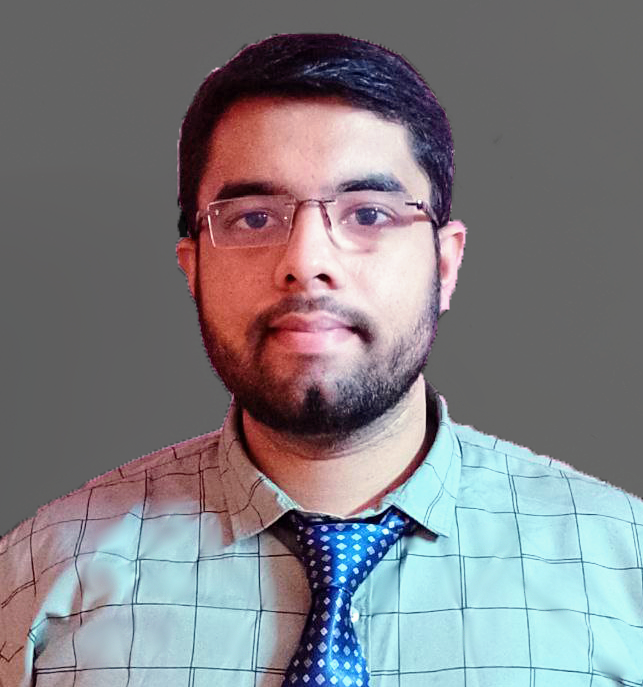
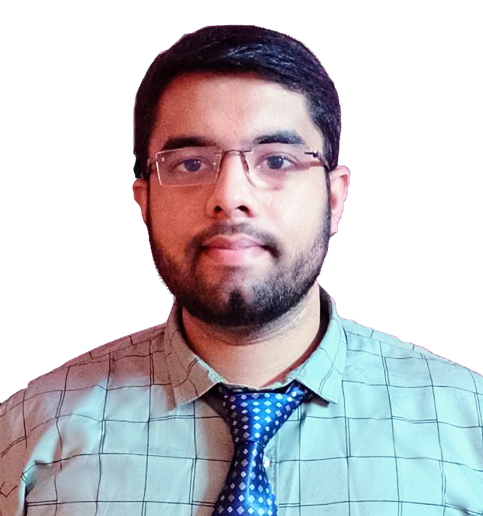
image updated

diff --git a/assets/css/index-style.css b/assets/css/index-style.css
@@ -265,7 +265,8 @@ img {
 }
 
 .home__img {
-    width: 160px;
+    /* width: 200vw; */
+    height: ;
 }
 
 .home__handle {
